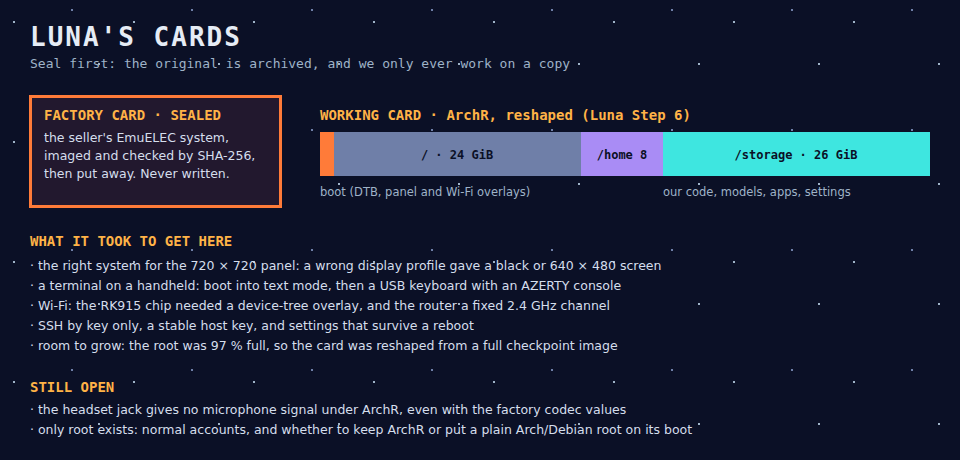
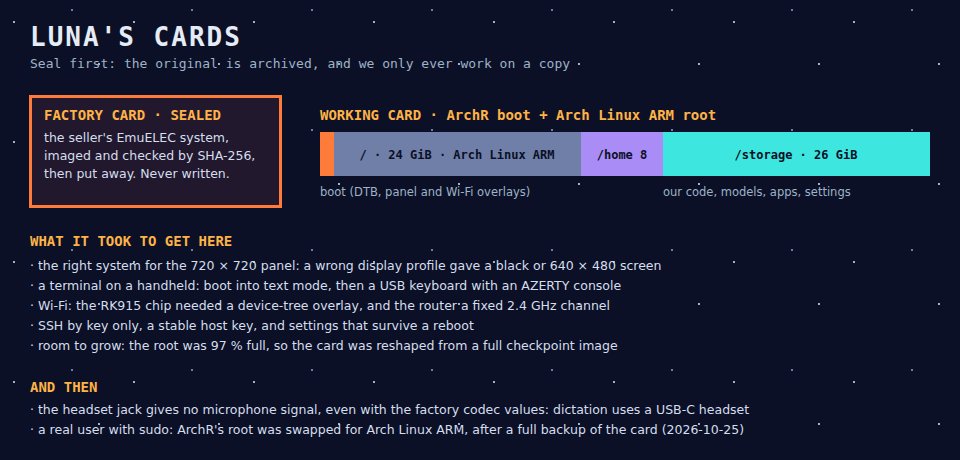
🌕 tell the guide that Luna runs Arch Linux ARM
Luna's page gains an appendix: why ArchR's root was replaced (the sudo
shim, Mannie working as michael), how, and what it costs in memory.
Architecture, Wyoh, Mycroft and the bring-up story now say ArchR boots
and Arch Linux ARM runs the rest; three diagrams follow.
The architecture page also says the agents now talk to each other.

diff --git a/docs/14_luna.md b/docs/14_luna.md
@@ -4,7 +4,7 @@
 
 ## In one sentence
 
-Luna is the R36 Ultra itself: what its hardware can do, the card it boots from, and the careful bring-up that turned a retro-gaming console into a Linux machine we can reach over SSH.
+Luna is the R36 Ultra itself: what its hardware can do, the card it boots from, and the careful bring-up that turned a retro-gaming console into an ordinary Linux machine, which the agents reach over SSH and Mannie now operates.
 
 ![Luna's cards](img/luna-card.svg)
 
@@ -17,32 +17,105 @@ Luna is the R36 Ultra itself: what its hardware can do, the card it boots from, 
 | Screen | 720 × 720 DSI panel |
 | Controls | 17 buttons (cross, A/B/X/Y, L1/L2/R1/R2, Select/Start/FN, two stick clicks) and two sticks |
 | Network | RK915 Wi-Fi, 2.4 GHz |
-| Audio | a speaker and a headset jack; the jack's microphone gives no signal under ArchR so far |
+| Audio | A speaker and a headset jack. The jack's microphone gives no signal, so dictation uses a USB-C headset. |
 | GPU APIs | ARM's `libmali`: OpenGL ES and **OpenCL**; **no Vulkan** |
 
 ## The system
 
-- **ArchR** (an Arch-based handheld distribution, kernel 6.12) runs on a disposable copy of the card. The original card is archived and never written: that is our **Seal**.
-- **The card is reshaped:** `/` is 24 GiB, `/home` is 8 GiB, and `/storage` is 26 GiB. Everything of ours goes in `/storage/.local`, so it survives and can be removed.
-- **The machine boots straight into Wyoh's desktop.** The text console stays underneath as a fallback.
-- **Access:** SSH by key only, with a stable host key. The agents share Luna one session at a time, through Professor's token (`worklines/luna-access.md`), and reboot it after each test series.
+- **Two systems in one card.**
+  - **Boot:** ArchR, an Arch-based handheld distribution. It provides the kernel (6.12), the panel and Wi-Fi descriptions, the start-up code, and the drivers.
+  - **Everything else:** **Arch Linux ARM**, a plain, general-purpose Linux, since 2026-10-25. [The appendix](#appendix-from-archr-to-arch-linux-arm) tells why and how.
+- **The Seal.** The factory card is archived and never written. The working card was backed up whole, with a verified checksum, before the change of system.
+- **The card is reshaped:**
+  - `/` is 24 GiB, holding Arch Linux ARM;
+  - `/home` is 8 GiB, holding the user's account `michael`;
+  - `/storage` is 26 GiB, holding the cell's code, models and apps under `/storage/.local`.
+- **The machine boots straight into Wyoh's desktop.** The user's text console stays on the first virtual terminal. Ctrl+Alt+F1 on a USB keyboard reaches it, even when the desktop is stuck.
+- **Access:**
+  - SSH by key only, with a stable host key;
+  - `michael` has a real `sudo`, and root logs in by key only;
+  - the agents share Luna one session at a time, through Professor's token (`worklines/luna-access.md`), and reboot it after each test series;
+  - since 2026-10-25, Mannie operates Luna's system: packages, services and accounts.
 
-The full story, card by card, is in [`03_r36-ultra-bring-up-story.md`](03_r36-ultra-bring-up-story.md). It covers the black screen, the hunt for the Wi-Fi driver, the router that had a say, and the full root partition.
+The full story of the first bring-up, card by card, is in [`03_r36-ultra-bring-up-story.md`](03_r36-ultra-bring-up-story.md). It covers the black screen, the hunt for the Wi-Fi driver, the router that had a say, and the full root partition.
 
 ## Why it is like this
 
-- **Keep ArchR, change nothing of it.** ArchR's boot path, display and Wi-Fi work. Our changes stay in `/storage`, so the device stays recoverable, and the decision to replace the base system can wait for evidence.
-- **Checkpoint before every risky change.** The reshape started from a full image of the card, checked by SHA-256, with a one-line rollback.
+- **Keep what ArchR does best.** ArchR's boot path, kernel, display and Wi-Fi work on this clone. That was hard-won, so they stay untouched.
+- **Use a normal Linux for everything else.** A handheld gaming system runs everything as root, and the cell needs a Linux with users, `sudo` and a full package repository. See the appendix.
+- **Checkpoint before every risky change.** Both the reshape and the change of system started from a full image of the card, checked by SHA-256, with a way back.
 - **Measure on the device.** Desk and `luna-pi` figures are hints. Luna's slow cores and 1 GiB are the real test.
 
 ## Status and limits
 
-- **Live:** boot, panel, Wi-Fi, SSH, the GPU driver, and Wyoh's session.
-- **Microphone:**
-  - **Negative:** the jack gives no signal, even with the factory codec register values written at runtime.
-  - **Next:** a USB sound card or a USB microphone. A passive USB-C-to-jack adapter is not enough.
-- **Open:**
-  - **Accounts:** only `root` exists, and ArchR has no `useradd`. Normal accounts (for the user, and for the agents) are being studied.
-  - **Base system:** keep ArchR, or put a plain Arch Linux ARM or Debian root on its proven boot path (Luna Step 7, not decided).
+- **Live:**
+  - boot, panel, Wi-Fi and SSH;
+  - the Mali GPU driver;
+  - Wyoh's desktop;
+  - resident dictation with the USB-C headset;
+  - the user account with `sudo`;
+  - the keyboard rescue path.
+- **Memory:** about **547 MiB** stay available with the desktop and resident dictation running. That is about 80 MiB less than under ArchR, mostly because the newer system services are larger. Trims are proposed.
+- **Microphone:** the jack gives no signal, even with the factory codec values. A USB-C headset works.
+- **Open after the change of system** (checks to do with the user):
+  - the menu and the apps (Wolfenstein's graphics library needs a fix);
+  - the Wi-Fi panel;
+  - the desktop running as `michael` rather than root;
+  - two small permission settings that failed at first boot.
 
-**Sources:** `worklines/luna/plan_luna.md`, Steps 5, 6 and 8; results `0604_01` and `0802_01`; note `0700_01`; [`03_r36-ultra-bring-up-story.md`](03_r36-ultra-bring-up-story.md).
+**Sources:** `worklines/luna/plan_luna.md`, Steps 5, 6, 7 and 8; `worklines/mannie/plan_mannie.md`, Steps 6 and 7; study `worklines/mannie/docs/0701_01`; results `0604_01` and `0802_01`; [`03_r36-ultra-bring-up-story.md`](03_r36-ultra-bring-up-story.md).
+
+---
+
+## Appendix: from ArchR to Arch Linux ARM
+
+*October 2026: how Luna got a normal Linux on top of a handheld's boot.*
+
+### Why we had to
+
+ArchR was chosen at bring-up because it boots R36 clones: it has the right kernel, the panel description and the Wi-Fi driver. Above that, it is a gaming distribution:
+- everything runs as root;
+- the home folder is `/storage`;
+- `sudo` is only a stand-in that runs the command as the caller;
+- its package repository, about 540 packages, has no `git`, `perl` or `tmux`.
+
+For a while that was enough. The cell installed everything under `/storage/.local` and worked as root over SSH.
+
+Then came the decision to **send Mannie to Luna**. Mannie, Claude Code with its whole harness, was to live on the handheld and operate it. An agent with that much power should not run as root. Mannie was to work as the user, `michael`, and raise its rights through `sudo` when needed, under the normal permission prompts.
+
+On ArchR that was impossible. The `sudo` stand-in gave `michael` no root at all, and the repository had no real `sudo`, not even `git`. Every system change still had to be made as root from the desk computer.
+
+### What we did
+
+We kept ArchR where it is strong and replaced the rest:
+
+| Partition | Before | After |
+|---|---|---|
+| `BOOT` | ArchR: kernel 6.12, start-up code, panel and Wi-Fi descriptions | **unchanged** |
+| root `/` | ArchR's system | **Arch Linux ARM** (glibc 2.43, systemd 262, pacman), with ArchR's kernel modules and firmware carried over |
+| `/home` | the user account | **unchanged** |
+| `/storage` | the cell's code, models, apps and settings | **unchanged** |
+
+The steps:
+
+1. **Back up the whole card.** A raw image, with its SHA-256 checked again after decompression, plus archives of `/storage` and `/home`.
+2. **Build the new root on the desk computer**, without root rights. It starts from the signed Arch Linux ARM archive. The packages are fetched and checked on the desk, then installed by Luna itself at first boot.
+3. **Write only the root partition.** The new root keeps the old partition's label, so ArchR's start-up code mounts it without noticing the change.
+4. **First boot.** It took about 3 minutes to install 290 packages. Wi-Fi and SSH came back first, with the same host key.
+5. **Bring the desktop back.** Arch Linux ARM's open-source GPU driver (Panfrost) had given a black screen on this device earlier. So ArchR's Mali driver was copied across, and Sway now runs on it, as before.
+6. **Add a rescue path.** The desktop moved to virtual terminal 7, and the user's console stays on terminal 1. A small service switches between them on Ctrl+Alt+F1…F12, even if the desktop hangs.
+
+### What it changed
+
+- **Gained:**
+  - `michael` with a real `sudo`;
+  - a full, signed package repository, with `git`, `gh` and `tmux`;
+  - a Linux that behaves like any other, ready for Mannie to live on.
+- **Paid:**
+  - about 80 MiB of memory: newer system services, Sway 1.12 instead of 1.11, Python 3.14 instead of 3.13;
+  - a few adjustments, such as Wyoh's tools rebuilt for the new Python, and root's home now in `/root` instead of `/storage`.
+- **Kept:**
+  - the boot, the kernel, the display, the Wi-Fi driver;
+  - the SSH identity;
+  - everything in `/storage` and `/home`.
+- **Way back:** the full image taken just before the change.

diff --git a/docs/04_architecture.md b/docs/04_architecture.md
@@ -11,15 +11,15 @@ Luna is a **R36 Ultra**:
 - a square 720 × 720 panel and a gamepad of 17 buttons and two sticks;
 - 2.4 GHz Wi-Fi.
 
-It runs **ArchR**, an Arch-based distribution for handhelds. We keep ArchR as it is, and everything we add lives under `/storage/.local`, so the card stays recoverable.
+It boots with **ArchR**, an Arch-based distribution for handhelds that provides the kernel, the display and the Wi-Fi driver. Since 2026-10-25, the rest of the system is **Arch Linux ARM**, a plain Linux with a real user account, `sudo` and a full package repository ([Luna, appendix](14_luna.md#appendix-from-archr-to-arch-linux-arm)). Everything the cell adds lives under `/storage/.local`, and the card is backed up before every risky change.
 
 On top sit, from bottom to top:
 
-- **Wyoh**, the desktop. It is ArchR's own Sway compositor, driven by a small daemon that turns the gamepad into keys, a pointer and window commands. It boots straight into the desktop, with no login and no terminal.
+- **Wyoh**, the desktop. It is the Sway compositor, driven by a small daemon that turns the gamepad into keys, a pointer and window commands. It boots straight into the desktop, with no login and no terminal.
 - **The apps:** a Windows 3.1-style calculator, a two-pane file manager, and Wolfenstein 3D work today. Chess, the Chrome dinosaur game (in white on black) and the NetSurf browser are next.
-- **Mycroft** turns speech into text, locally, with no network. It is installed on Luna and wired into the desktop. It is waiting for a working microphone: the headset jack does not deliver a signal under ArchR, so the next try is a USB-C microphone.
+- **Mycroft** turns speech into text, locally, with no network. It is installed on Luna, stays loaded in memory, and dictates into the desktop through a USB-C headset (the headset jack gives no signal).
 - **Mike**, the local brain, will choose one desktop action from a short list. So far it is measured on the desk host only.
-- **Mannie**, the big model (Claude), lives on the far side of the **Tunnel**, our word for a network connection. He has been measured on the Raspberry Pi reference board (`luna-pi`) only, not yet on Luna.
+- **Mannie**, the big model (Claude), lives on the far side of the **Tunnel**, our word for a network connection. Claude Code, his harness, is installed on Luna, and Mannie now operates Luna's system. The next step is to make him live there, as a session running on the handheld itself.
 
 Development happens on a desk host. The agents reach Luna over SSH, **one session at a time**, and reboot it after each test series.
 
@@ -44,9 +44,13 @@ Nothing acts behind your back. Text is sent, and actions run, only after you acc
 
 ![The 1 GiB budget](img/memory-budget.svg)
 
-With the desktop running, about **795 MiB** are left. That is enough for voice plus the local brain (about 601 MiB). Adding Mannie's harness (about 845 MiB in all) is not. Lighter choices bring all three back under the limit:
+*Measured under ArchR, before the change of system.* With the desktop running, about **795 MiB** were left. That is enough for voice plus the local brain (about 601 MiB). Adding Mannie's harness (about 845 MiB in all) is not. Lighter choices bring all three back under the limit:
 - Mycroft with the **Kroko** model, about 160 MiB;
 - Mike with a smaller **230M** model, about 263 MiB.
+
+**On Arch Linux ARM (2026-10-25):** about **547 MiB** stay available with the desktop *and* resident Kroko running.
+- **Claude Code fits:** it peaked at 244 MiB on `luna-pi`.
+- **Mike as well would sit right at the limit:** about 306 MiB lean on the desk host. Trimming the new system's services is on the list.
 
 That trade-off, rather than raw speed, is what will shape the next decisions. A game alone is cheap: Wolfenstein 3D uses 66 MiB.
 
@@ -67,7 +71,7 @@ Luna is built by AI agents. Each agent is one Claude session working on one **wo
 - it supervises the cell when the user delegates it for a while, for example to let the agents keep working while the user is away. Every decision it takes then is logged for the user's review.
 
 The rules between agents:
-- **Comrades don't message each other.** They leave notes in each other's `docs/`, or go through Professor.
+- **Comrades talk to each other directly** when the work needs it (since 2026-10-30), and leave notes in each other's `docs/` for anything durable.
 - **The plan is the channel.** Every request lands in a plan step, so the user can open any plan and see where it stands.
 - **When an agent is blocked, it stops.** It writes its state in its plan and asks the user in its own console.
 
@@ -77,12 +81,13 @@ In the novel, revolutionaries organise in cells of three, so that nobody knows t
 
 | Part | State |
 |---|---|
-| Wyoh desktop, gamepad, Slate, menu, four-tile layout | live on Luna, boots straight into it |
-| Calculator, Files, Wolfenstein 3D | live on Luna |
+| Luna's system | Arch Linux ARM on ArchR's boot, since 2026-10-25 |
+| Wyoh desktop, gamepad, Slate, menu, four-tile layout | live on Luna, boots straight into it; checks after the change of system pending |
+| Calculator, Files, Wolfenstein 3D | live on Luna before the change of system; Wolfenstein's graphics library needs a fix |
 | Chess, Dino, NetSurf | next |
-| Mycroft dictation | installed and wired on Luna; no working microphone yet |
+| Mycroft dictation | live on Luna: Kroko resident, USB-C headset |
 | Mike | measured on the desk host |
-| Mannie (Claude Code) | measured on `luna-pi` |
+| Mannie (Claude Code) | installed and measured on Luna; moving there as a resident session |
 | GPU computing (OpenCL) | available, parked until dictation works on the CPU |
 
 **Sources:** the Wyoh, Mycroft, Mike, Mannie and Luna plans; the results `wyoh/0407_01`, `wyoh/0506_01`, `wyoh/0605_01`, `mycroft/0703_01`, `mycroft/0802_01`, `mycroft/0903_02`, `mike/0302_05`, `mannie/0203_01` and `luna/0802_01`.

diff --git a/docs/10_wyoh.md b/docs/10_wyoh.md
@@ -4,7 +4,7 @@
 
 ## In one sentence
 
-Wyoh turns ArchR's own Sway compositor into a desktop that you drive with Luna's buttons, and that an agent can read and drive through a small set of named actions.
+Wyoh turns the Sway compositor into a desktop that you drive with Luna's buttons, and that an agent can read and drive through a small set of named actions.
 
 ![Inside Wyoh](img/wyoh-inside.svg)
 
@@ -12,7 +12,7 @@ Wyoh turns ArchR's own Sway compositor into a desktop that you drive with Luna's
 
 | Piece | Code | On Luna | Started by |
 |---|---|---|---|
-| Sway session and its configuration | `src/wyoh/deploy/luna/` (`sway.conf`, `wyoh-sway.service`, `wyoh-gpu.sh`) | ArchR's Sway 1.11, with our config under `/storage/.local/share/tanstfaafllm/wyoh/` | systemd at boot |
+| Sway session and its configuration | `src/wyoh/deploy/luna/` (`sway.conf`, `wyoh-sway.service`, `wyoh-gpu.sh`) | Sway 1.12 from Arch Linux ARM (1.11 from ArchR until 2026-10-25), on ArchR's Mali driver, with our config under `/storage/.local/share/tanstfaafllm/wyoh/` | systemd at boot |
 | Gamepad daemon | `src/wyoh/wyoh_gamepad.py`, `deploy/luna/gamepad.toml` | same | `wyoh-gamepad.service` |
 | Slate (multi-line editor) | `src/wyoh/wyoh_slate.py` | a floating terminal window | the daemon, on L1 |
 | On-screen keyboard | `src/wyoh/wvkbd/` (a patch to wvkbd 0.15: AZERTY and two cursors) | built on `luna-pi`, deployed under `/storage` | the daemon, with the Slate |
@@ -20,7 +20,7 @@ Wyoh turns ArchR's own Sway compositor into a desktop that you drive with Luna's
 | Apps and menu | `src/wyoh/apps/<app>/` (a `wyoh-app.toml` manifest and a `run` launcher), `wyoh_apps.py` | apps under `/storage/.local/opt/`, menu entries generated | fuzzel menu, on Start |
 | MCP bridge (development) | `src/wyoh/wyoh_mcp_server.py`, `wyoh_virtual_input.py` | started over SSH, owns no port | an agent, for tests |
 
-You deploy with `make wyoh-luna-deploy`, and boot into the session with `make wyoh-luna-enable`. Removing it gives back ArchR's text console.
+You deploy with `make wyoh-luna-deploy`, and boot into the session with `make wyoh-luna-enable`. Removing it gives back the text console.
 
 ## How it talks to the others
 
@@ -70,6 +70,6 @@ With the session running, about 795 MiB of Luna's 983 MiB stay available for eve
 - **Waiting for the user's hands:** the check of the physical controls, the whole-cross press, and readability.
 - **Waiting for a microphone:** dictation in the Slate.
 - **Next:** chess, the Dino game, NetSurf, a Wi-Fi panel driven by the buttons, and possibly desktop icons and a full-screen-only window policy.
-- **Known limit:** the exclusive grab mutes ArchR's own gamepad hotkeys. The brightness shortcut is one of them.
+- **Known limit:** the daemon grabs the gamepad exclusively, so no system hotkey works outside Wyoh's own. ArchR's brightness shortcut was one of them, and it left with ArchR's system.
 
 **Sources:** `worklines/wyoh/plan_wyoh.md`, Steps 1, 5, 6, 9 and 12; results `0407_01`, `0408_01`, `0506_01`, `0605_01`; the controls reference `0512_01`.

diff --git a/docs/03_r36-ultra-bring-up-story.md b/docs/03_r36-ultra-bring-up-story.md
@@ -101,6 +101,8 @@ ArchR already had permanent folders meant for both, but hadn't connected them. T
 
 ## Where things stand
 
+*This story ends in early October 2026. Since then, the card was reshaped, and on 2026-10-25 ArchR's root was replaced by Arch Linux ARM, keeping ArchR's boot. See [Luna, appendix](14_luna.md#appendix-from-archr-to-arch-linux-arm).*
+
 - The handheld runs ArchR from a spare microSD card, starts in text mode, joins the home Wi-Fi on its own, and accepts SSH from the PC.
 - The original card is archived, verified and untouched.
 - Every change is small, documented and reversible: one boot setting, one keyboard step, one hardware patch and two settings files.

diff --git a/docs/11_mycroft.md b/docs/11_mycroft.md
@@ -46,7 +46,7 @@ Mycroft turns French speech into editable text, locally and with no network, and
   - the console works on the desk host, and the user judged live dictation there "pas mal";
   - the provider is installed on Luna and wired into the Slate, and is tested with a fake provider.
 - **Blocking:** no microphone on Luna yet.
-  - The headset jack gives no signal under ArchR, even with the factory codec values.
+  - The headset jack gives no signal, even with the factory codec values.
   - A passive USB-C adapter is not a sound card.
   - The next try is a USB sound card or a USB microphone.
 - **Open:**
